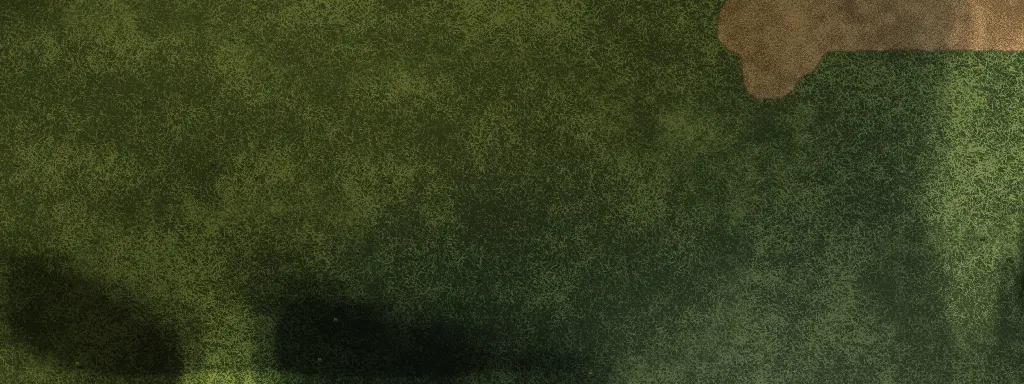
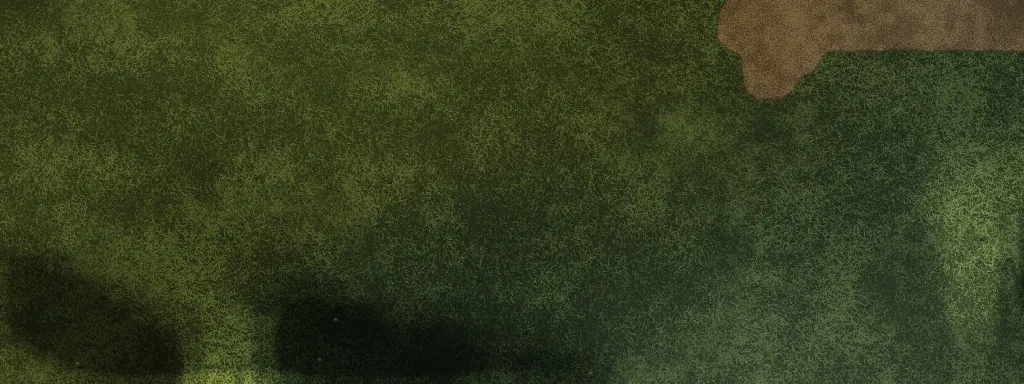
Rivergate City: level ground in the city, so the bridges lie flat
The banks by the north and south bridges stood about 24 high and fell to
the water over 4 cells, so the ends of the decks were painted onto the
slope and looked curved. A map can now list `flats` (boxes of level ground
that ease back into the hills, world.js makeHeights); the city has one.
Ground rebaked (only the city's sheets changed).

Claude-Session: https://claude.ai/code/session_01Bkzzdg1FSPt6c2su7vycts

Changed region(s): [[0.9062, 0.0, 1.0, 0.5]]

diff --git a/src/maps.js b/src/maps.js
@@ -973,6 +973,7 @@ const MAPS = {
     // its own city; a fountain and a church by each plaza in `squares`. Neutral; they block, burn and fall like Crossroads Village's.
     village: true,
     daynight: true,   // day and night come round (art.js dayNight; looks only)
+    flats: [[34, 12, 109, 131, 8]],   // the city on level ground (world.js makeHeights), so the bridges lie level with their banks
     // A fixed layout, made by python3 tools/make-city-map.py (mirrored both ways, so the four starts are alike).
     squares: [[51,60,62,68],[81,60,92,68],[51,75,62,83],[81,75,92,83]],
     lamps: [[38.85,18.5],[105.15,18.5],[36.15,24.5],[107.85,24.5],[36.15,36.5],[107.85,36.5],[38.85,42.5],[105.15,42.5],[38.85,54.5],[105.15,54.5],[38.85,66.5],[105.15,66.5],[38.85,78.5],[105.15,78.5],[38.85,90.5],[105.15,90.5],[38.85,102.5],[105.15,102.5],[36.15,120.5],[107.85,120.5],[51.85,18.5],[92.15,18.5],[49.15,24.5],[94.85,24.5],[49.15,36.5],[94.85,36.5],[51.85,42.5],[92.15,42.5],[51.85,54.5],[92.15,54.5],[51.85,66.5],[92.15,66.5],[51.85,78.5],[92.15,78.5],[51.85,90.5],[92.15,90.5],[51.85,102.5],[92.15,102.5],[49.15,120.5],[94.85,120.5],[40.5,16.85],[103.5,16.85],[40.5,127.15],[103.5,127.15],[46.5,14.15],[97.5,14.15],[46.5,129.85],[97.5,129.85],[58.5,14.15],[85.5,14.15],[58.5,129.85],[85.5,129.85],[40.5,34.85],[103.5,34.85],[40.5,109.15],[103.5,109.15],[46.5,29.15],[97.5,29.15],[46.5,114.85],[97.5,114.85],[58.5,29.15],[85.5,29.15],[58.5,114.85],[85.5,114.85],[40.5,47.85],[103.5,47.85],[40.5,96.15],[103.5,96.15],[46.5,45.15],[97.5,45.15],[46.5,98.85],[97.5,98.85],[58.5,45.15],[85.5,45.15],[58.5,98.85],[85.5,98.85],[40.5,60.85],[103.5,60.85],[40.5,83.15],[103.5,83.15],[46.5,58.15],[97.5,58.15],[46.5,85.85],[97.5,85.85],[58.5,58.15],[85.5,58.15],[58.5,85.85],[85.5,85.85],[51.4,60.4],[62.6,60.4],[51.4,68.6],[62.6,68.6],[81.4,60.4],[92.6,60.4],[81.4,68.6],[92.6,68.6],[51.4,75.4],[62.6,75.4],[51.4,83.6],[62.6,83.6],[81.4,75.4],[92.6,75.4],[81.4,83.6],[92.6,83.6]],

diff --git a/src/world.js b/src/world.js
@@ -202,6 +202,7 @@ function makeHeights(mapId) {
   // ease (its cliffs and ramps are in the layout); the low ground only gentle swells (low x the usual hills).
   const pl = MAPS[validMap(mapId)].plateau;
   const mesas = MAPS[validMap(mapId)].mesas || [];
+  const flats = MAPS[validMap(mapId)].flats || [];   // [x0, y0, x1, y1, ease]: level boxes (cells)
   for (let y = 0; y < MAP; y++) for (let x = 0; x < MAP; x++) {
     const c = y * MAP + x;
     let v = raw(x + 0.5, y + 0.5);
@@ -217,6 +218,10 @@ function makeHeights(mapId) {
       const along = dx * m.ramp[0] + dy * m.ramp[1], across = Math.abs(-dx * m.ramp[1] + dy * m.ramp[0]);
       if (along > 0) v = Math.max(v, T * (1 - S(Math.max(0, Math.min(1, (along - m.top) / m.rampLen))))
         * (1 - S(Math.max(0, Math.min(1, (across - m.rampW) / 2)))));
+    }
+    for (const [a, b, c2, d2, ease] of flats) {   // a map's `flats` (Rivergate City): level ground in a box, easing into the hills
+      const out = Math.hypot(Math.max(0, a - x, x - c2), Math.max(0, b - y, y - d2));
+      v *= S(Math.min(1, out / ease));
     }
     v *= S(Math.min(1, (wd[c] === 255 ? 6 : wd[c]) / 5));   // down to the water's edge
     h[c] = G.terr[c] >= 4 ? 0 : v;

diff --git a/docs/NOTES.md b/docs/NOTES.md
@@ -880,6 +880,9 @@ recorder usage at the top of record.js).
 - A river 8 cells wide runs the whole height of the map down the middle; the only crossings are three concrete bridges
   (`bridge: 'concrete'`, `breakable: true`): the north and south boulevards (6 wide) and the main avenue (8 wide) in the middle.
   With every bridge down the banks are cut off (`map-check.js`), as on Twin Lakes; Engineers rebuild spans.
+- **Level city** (`flats: [[34, 12, 109, 131, 8]]`, world.js `makeHeights`: per box, the hills times 0 inside, easing back
+  over `ease` cells). Without it the north and south banks stood about 24 high and fell to the water over 4 cells, so the deck
+  ends were painted onto the slope and looked curved (contributor: "not curved at the edges"). Other maps have no `flats`, unchanged.
 - The city on each bank: a street grid (dirt `,`, streets 3 wide), 12 blocks per bank of about 10 x 10. The buildings are the
   village houses (`village: true`, world.js `genVillage`) rolled on the blocks in `lots` (about 170 a battle). Two plazas per bank
   by the main bridge (`squares`, expanded 1 cell into the streets so a church fits on a neighbouring block: a fountain, market stalls
